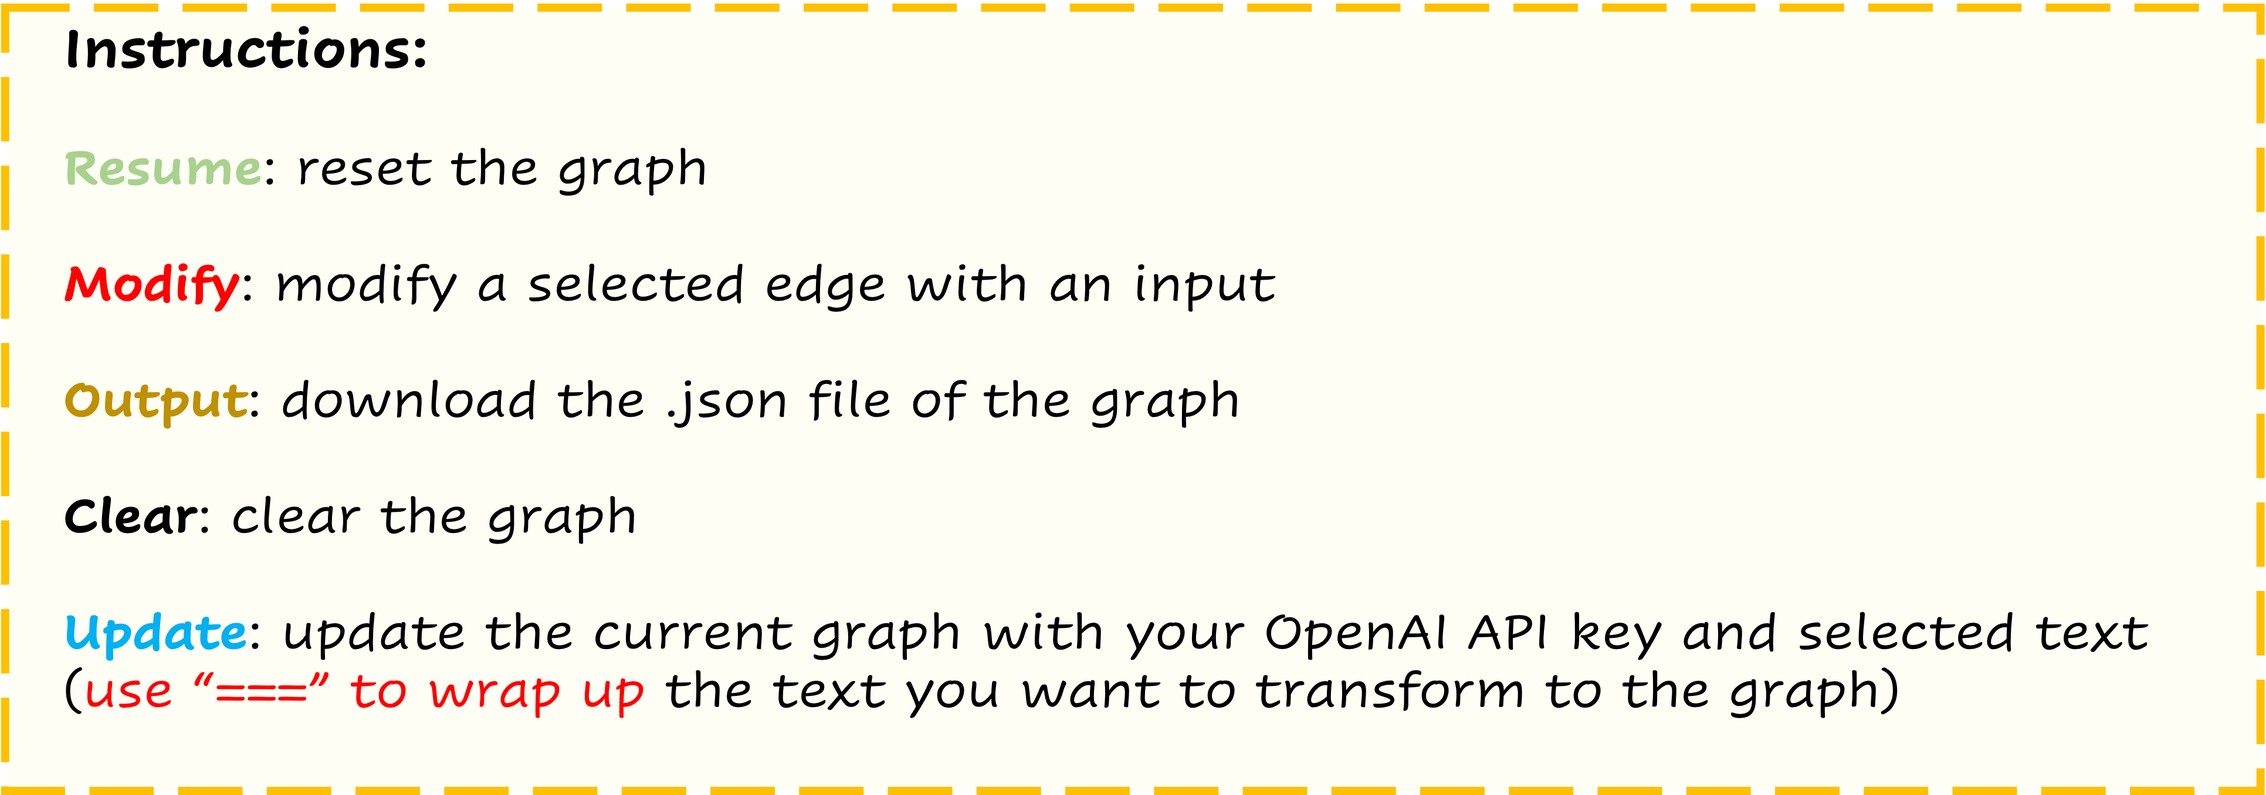
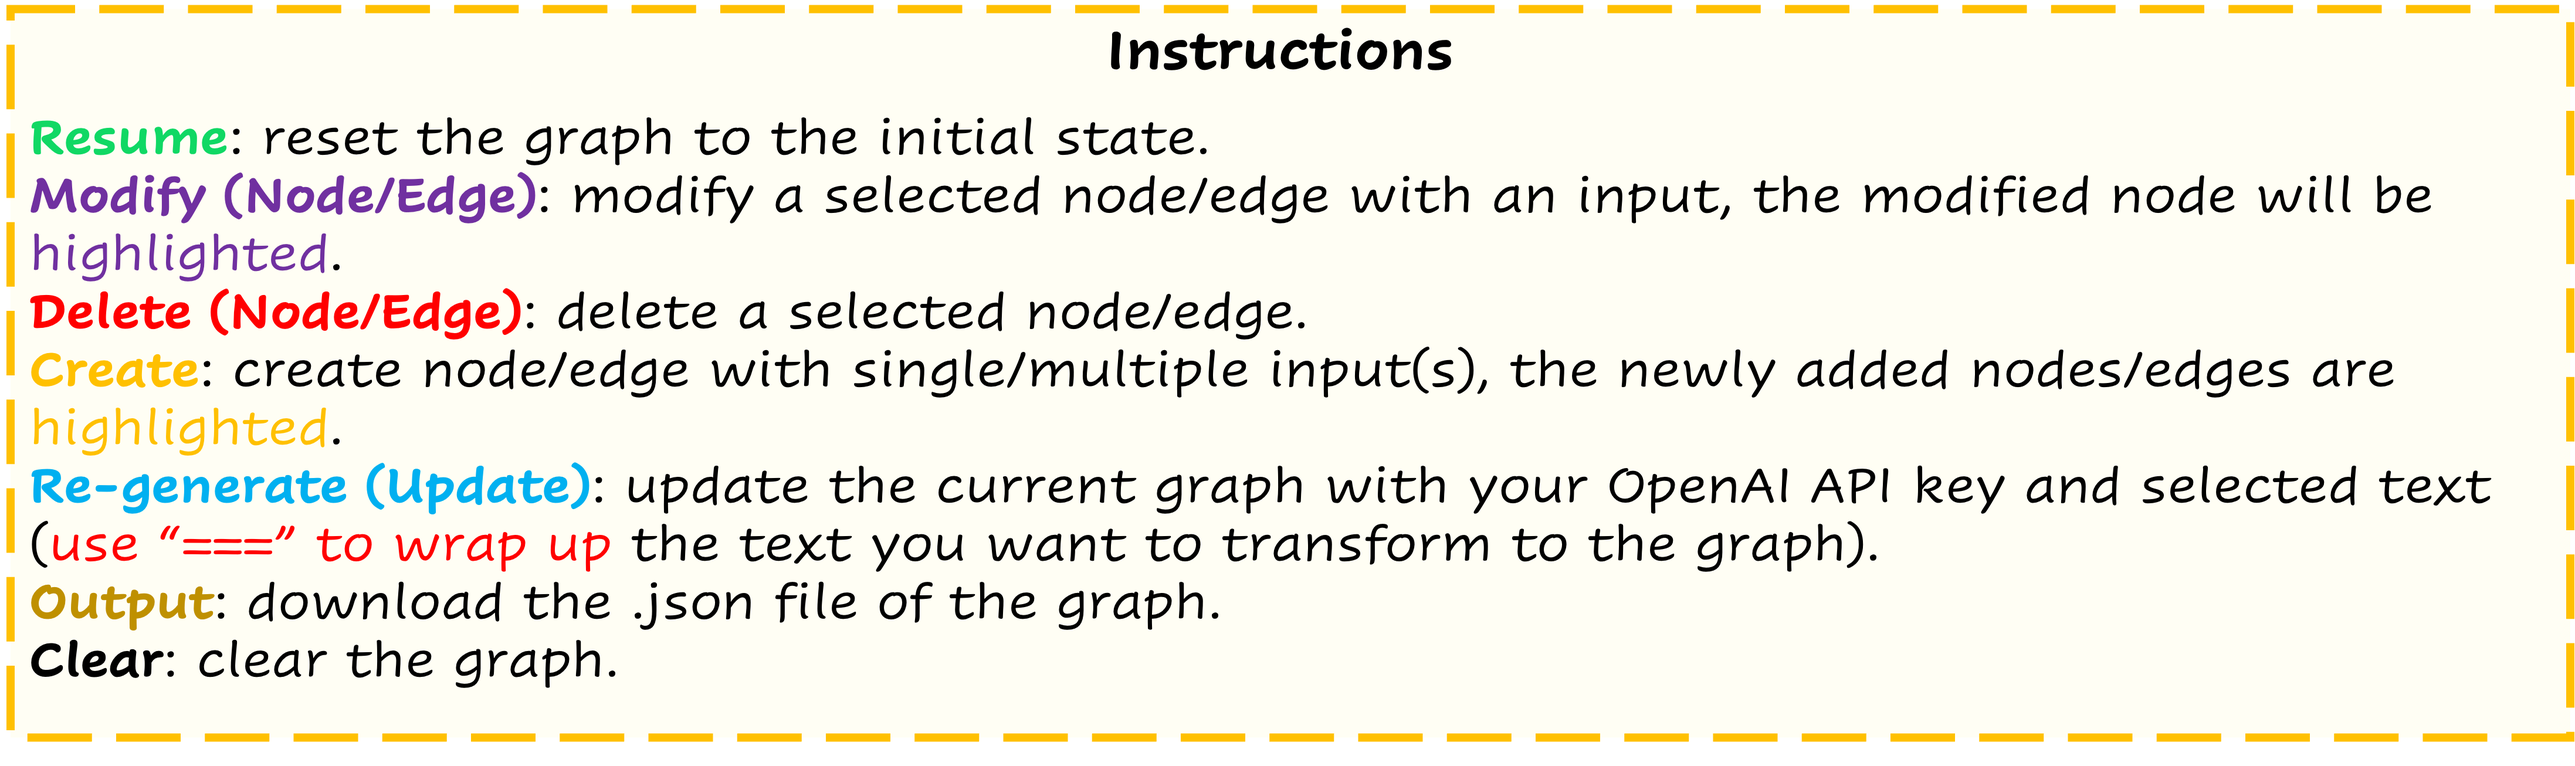
add more functions (create, delete nodes/edges)

Changed region(s): [[0.0, 0.0, 1.0, 1.0]]

diff --git a/src/App.js b/src/App.js
@@ -284,13 +284,32 @@ function App() {
   
     const updatedEdge = {
       ...graph.edges[edgeIndex],
-      label: newLabel
+      label: newLabel,
+      color: "#8A78FE"
     };
     const updatedEdges = [
       ...graph.edges.slice(0, edgeIndex),
       updatedEdge,
       ...graph.edges.slice(edgeIndex + 1)
     ];
+    return {
+      ...graph,
+      edges: updatedEdges
+    };
+  }
+
+  function deleteEdgeFunc(graph, id) {
+    const edgeIndex = graph.edges.findIndex(edge => edge.id === id);
+    if (edgeIndex === -1) {
+      console.error(`Edge with id "${id}" not found.`);
+      return graph;
+    }
+  
+    const updatedEdges = [
+      ...graph.edges.slice(0, edgeIndex),
+      ...graph.edges.slice(edgeIndex + 1)
+    ];
+  
     return {
       ...graph,
       edges: updatedEdges
@@ -307,7 +326,8 @@ function App() {
     const updatedNode = {
       ...graph.nodes[nodeIndex],
       id: newId,
-      label: newLabel
+      label: newLabel,
+      color: "#8A78FE"
     };
     const updatedNodes = [
       ...graph.nodes.slice(0, nodeIndex),
@@ -338,12 +358,72 @@ function App() {
     };
   }
 
+  function deleteNodeFunc(graph, id) {
+    const nodeIndex = graph.nodes.findIndex(node => node.id === id);
+    if (nodeIndex === -1) {
+      console.error(`Node with id "${id}" not found.`);
+      return graph;
+    }
+  
+    const connectedEdges = graph.edges.filter(edge => edge.source === id || edge.target === id);
+    const updatedEdges = graph.edges.filter(edge => !connectedEdges.includes(edge));
+    const updatedNodes = [
+      ...graph.nodes.slice(0, nodeIndex),
+      ...graph.nodes.slice(nodeIndex + 1)
+    ];
+  
+    return {
+      nodes: updatedNodes,
+      edges: updatedEdges
+    };
+  }
+
+  function addNodeAndEdge(graph, nodes, edges) {
+    const newGraph = {
+      nodes: [...graph.nodes],
+      edges: [...graph.edges]
+    };
+  
+    // Create nodes
+    nodes.forEach(node => {
+      const newNode = {
+        id: node.id,
+        label: node.label,
+        color: node.color
+      };
+  
+      newGraph.nodes.push(newNode);
+      console.log(newNode);
+    });
+    if (edges !== null) {
+      edges.forEach(edge => {
+        const newEdge = {
+          from: edge.from,
+          to: edge.to,
+          label: edge.label,
+          color: edge.color
+        };
+        newGraph.edges.push(newEdge);
+        console.log(newEdge);
+      });
+    }
+    // Create edges
+  
+    setGraphState(newGraph);
+  }
+  
+
   const editEdge = () => {
     const modifiedEdge = document.getElementsByClassName("edgeModify")[0].value;
     if (modifiedEdge != "") {
       setGraphState(editEdgeLabel(graphState, selectedEdge, modifiedEdge));
       alert("The label of edge " + selectedEdge + " is changed to " + modifiedEdge);
     }
+  }
+
+  const deleteEdge = () => {
+    setGraphState(deleteEdgeFunc(graphState, selectedEdge));
+    alert("The edge " + selectedEdge + " is deleted");
   }
 
   const editNode = () => {
@@ -353,6 +433,43 @@ function App() {
       alert(`The id and label of node ${selectedNode} are changed to ${modifiedNode}`);
     }
   };
+
+  const deleteNode = () => {
+      setGraphState(deleteNodeFunc(graphState, selectedNode));
+      alert("The node " + selectedNode + " is deleted");
+    
+  }
+
+  const createNodeEdge = () => {
+    const node1Add = document.getElementsByClassName("node1Add")[0].value;
+    const edgeAdd = document.getElementsByClassName("edgeAdd")[0].value;
+    const node2Add = document.getElementsByClassName("node2Add")[0].value;
+
+    console.log(node1Add, edgeAdd, node2Add);
+
+    var nodes = null;
+    if (node1Add !== "") {
+      nodes = [{ id: node1Add, label: node1Add, color: '#FCE238' }]
+    }
+
+    if (node2Add !== "") {
+      nodes = [
+        { id: node1Add, label: node1Add, color: '#FCE238' },
+        { id: node2Add, label: node2Add, color: '#FCE238' }
+      ]
+    }
+
+    var edges = null;
+    if (edgeAdd !== "") {
+      edges = [
+        { from: node1Add, to: node2Add, label: edgeAdd, color: '#FCE238' },
+      ];
+    }
+
+    console.log(nodes, edges);
+
+    addNodeAndEdge(graphState, nodes, edges);
+  }
 
   const handleSave = (save_path) => {
     const blob = new Blob([JSON.stringify(graphState, null, 2)], { type: 'application/json;charset=utf-8' });
@@ -620,13 +737,21 @@ function App() {
           <button className="modifyNodeButton" onClick={editNode}>Modify Node</button>
           <input className="edgeModify" placeholder="Change the edge to ..."></input>
           <button className="modifyEdgeButton" onClick={editEdge}>Modify Edge</button>
-          <button className="outButton" onClick={outputGraph}>Output</button>
-          <button className="clearButton" onClick={clearState}>Clear</button>
+          <button className="deleteNodeButton" onClick={deleteNode}>Delete Node</button>
+          <button className="deleteEdgeButton" onClick={deleteEdge}>Delete Edge</button>
         </div>
 
         <div className='inputContainer1'>
-              <button className="generateButton" onClick={regenerateGraph}>Re-generate (Update)</button>
-              <input className="apiKeyTextField" type="password" placeholder="Enter OpenAI API key ..."></input>
+          <div className='create' style={{ display: 'flex', flexDirection: 'column'}}>
+            <input className="node1Add" placeholder="Node 1"></input>
+            <input className="edgeAdd" placeholder="Edge"></input>
+            <input className="node2Add" placeholder="Node 2"></input>
+          </div>
+          <button className="createButton" onClick={createNodeEdge}>Create</button>
+          <input className="apiKeyTextField" type="password" placeholder="Enter OpenAI API key ..."></input>
+          <button className="generateButton" onClick={regenerateGraph}>Re-generate (Update)</button>
+          <button className="outButton" onClick={outputGraph}>Output</button>
+          <button className="clearButton" onClick={clearState}>Clear</button>
         </div>
 
         <div className='inputContainer2' style={{ display: 'flex', flexDirection: 'column'}}>

diff --git a/src/App.css b/src/App.css
@@ -86,9 +86,10 @@
 .inputContainer1 {
   width: 100%;
   display: flex;
+  height: 100px;
   /* margin: 0 auto; */
   /* align-items: center; */
-  margin-top: 0px;
+  margin-top: px;
 }
 
 .inputContainer2 {
@@ -96,7 +97,7 @@
   display: flex;
   /* margin: 0 auto; */
   /* align-items: center; */
-  margin-top: 0px;
+  margin-top: 10px;
 }
 
 
@@ -109,7 +110,7 @@
   height: 50px;
   outline: none;
   padding: 0 10px;
-  width: 44.9%;
+  width: 33.1%;
   margin-top: 5px;
 }
 
@@ -154,7 +155,7 @@
 }
 
 .instruction{
-  width: 80%;
+  width: 100%;
   height: 100%;
   margin-top: 5px;
 }
@@ -170,7 +171,6 @@
   outline: none;
   width: 20%;
   display: inline-block;
-  margin-right: 5px;
   margin-top: 5px;
 }
 
@@ -197,6 +197,7 @@
   margin-right: auto;
   display: inline-block;
   margin-left: 5px;
+  margin-top: 5px;
 }
 
 .clearButton:hover {
@@ -229,11 +230,12 @@
   color: rgb(0, 0, 0);
   cursor: pointer;
   font-size: 16px;
-  height: 100%;
+  height: 50px;
   outline: none;
   width: 10%;
   display: inline-block;
   margin-left: 5px;
+  margin-top: 5px;
 }
 
 .outButton:hover {
@@ -241,7 +243,7 @@
 }
 
 .modifyEdgeButton {
-  background-color: rgb(242, 73, 35);
+  background-color: rgb(138, 120, 254);
   border: 1px solid rgb(0, 0, 0);
   border-radius: 5px;
   color: rgb(0, 0, 0);
@@ -251,10 +253,31 @@
   outline: none;
   width: 9.5%;
   display: inline-block;
-  margin-left: 5px;
 }
 
 .modifyNodeButton {
+  background-color: rgb(138, 120, 254);
+  border: 1px solid rgb(0, 0, 0);
+  border-radius: 5px;
+  color: rgb(0, 0, 0);
+  cursor: pointer;
+  font-size: 16px;
+  height: 100%;
+  outline: none;
+  width: 9.5%;
+  display: inline-block;
+  margin-right: 5px;
+}
+
+.modifyNodeButton:hover {
+  background-color: rgba(185, 175, 249, 0.8);
+}
+
+.modifyEdgeButton:hover {
+  background-color: rgba(185, 175, 249, 0.8);
+}
+
+.deleteNodeButton{
   background-color: rgb(242, 73, 35);
   border: 1px solid rgb(0, 0, 0);
   border-radius: 5px;
@@ -266,11 +289,53 @@
   width: 9.5%;
   display: inline-block;
   margin-left: 5px;
+}
+
+.deleteEdgeButton{
+  background-color: rgb(242, 73, 35);
+  border: 1px solid rgb(0, 0, 0);
+  border-radius: 5px;
+  color: rgb(0, 0, 0);
+  cursor: pointer;
+  font-size: 16px;
+  height: 100%;
+  outline: none;
+  width: 9.5%;
+  display: inline-block;
+  margin-left: 5px;
+}
+
+.deleteNodeButton:hover {
+  background-color: rgba(248, 116, 104, 0.8);
+}
+
+.deleteEdgeButton:hover {
+  background-color: rgba(248, 116, 104, 0.8);
+}
+
+.create{
+  width: 20%;
+  height: 100%;
+  margin-top: 5px;
+}
+
+.createButton{
+  background-color: rgb(251, 225, 30);
+  border: 1px solid rgb(0, 0, 0);
+  border-radius: 5px;
+  color: rgb(0, 0, 0);
+  cursor: pointer;
+  font-size: 16px;
+  height: 90%;
+  outline: none;
+  width: 9.5%;
+  display: inline-block;
+  margin-top: 5px;
   margin-right: 5px;
 }
 
-.modifyButton:hover {
-  background-color: rgba(231, 126, 94, 0.8);
+.createButton:hover {
+  background-color: rgba(238, 243, 153, 0.8);
 }
 
 
